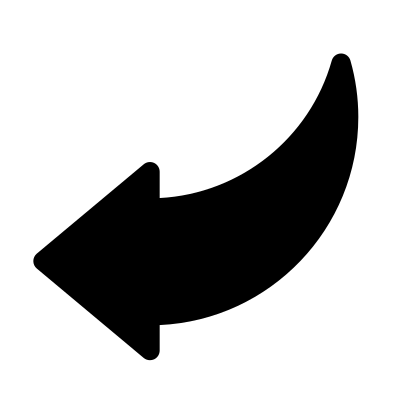
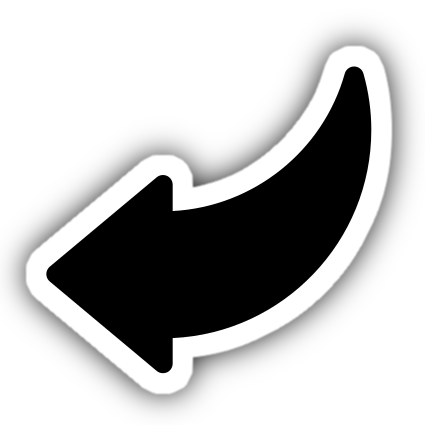
Quality of life, polish, better styling, disable lerping when far from camera

diff --git a/index.html b/index.html
@@ -18,12 +18,16 @@
             
             #overlay { pointer-events:none; display:flex; flex:1; position:fixed; inset:0; width:auto; height:auto; flex-direction:column; justify-content:end; }
             #menuHolder { display:flex; flex:1; width:65dvw; height:auto; justify-content:center; align-items:center; padding-top:1dvh; padding-bottom:1dvh; padding-left:1dvw; padding-right:1dvw }
-            #menuBox { container-type:size; overflow:hidden; pointer-events:auto; display:flex; width:calc(var(--boxSize) * 4 / 3); height:var(--boxSize); padding-top:2dvh; padding-bottom:2dvh; padding-left:2dvh;
-                background-color:rgba(100,100,100,0.8); border:solid 1dvh black; border-radius:5dvh; transform:scale(100%); transition:transform 0.2s ease-out }
+            #menuBox { pointer-events:none; container-type:size; display:flex; width:calc(var(--boxSize) * 4 / 3); height:var(--boxSize);
+                background-color:rgb(200,200,200,0.0); transform:scale(100%); transition:transform 0.2s ease-out }
             #menuBox.hidden { transform:scale(0%); }
 
-            #pivotSelect { position:relative; }
-            #dollImg { height:100%; }
+            #pivotSelect { pointer-events:auto; position:relative; }
+            #dollContainer { width:fit-content; height:100%; cursor:pointer; transform:scale(100%); transition:transform 0.5s ease }
+            #dollContainer:active { transform:scale(95%) }
+            .dollImg { width:100%; height:100%; }
+            #dollBack { position:absolute; z-index:-1; left:0; top:0; background-color:#FF00FF; mask-image:url("assets/PegManMask.png"); mask-size:contain; mask-repeat:no-repeat; mask-position:center; 
+                -webkit-mask-image:url("assets/PegManMask.png"); -webkit-mask-size:contain; -webkit-mask-repeat:no-repeat; -webkit-mask-position:center; }
             #pivotSelect input { appearance:none; margin:0; position:absolute; cursor:pointer; width:15cqh; height:15cqh; 
                 border-radius:100%; background-color:white; border:solid 1.5cqh black; -webkit-tap-highlight-color:transparent;
                 background-repeat:no-repeat; background-position:center; background-image:radial-gradient(black 25%, white 27%);
@@ -38,8 +42,8 @@
             #body { left:50%; top:33%; }
             
             #rightHolder { container-type:size; position:relative; display:flex; flex:1; justify-content:center; align-items:center; flex-direction:column; }
-            #arrowBackground { position:absolute; left:50%; top:50%; transform:translate(-50%, -50%); width:95cqw; height:95cqw; background-color:rgba(0,0,0,0.5); border:solid 2cqw black; border-radius:100% }
-            #arrowHolder { container-type:size; position:relative; width:73cqw; height:73cqw; }
+            #arrowBackground { pointer-events:auto; position:absolute; left:50%; top:50%; transform:translate(-50%, -50%); width:95cqw; height:95cqw; background-color:rgba(0,0,0,0.65); border-radius:100% }
+            #arrowHolder { pointer-events:auto; container-type:size; position:relative; width:73cqw; height:73cqw; }
 
             .arrowButton { position:absolute; cursor:pointer; top:50%; left:50%; width:40cqh; height:40cqh; padding:3cqh; -webkit-tap-highlight-color:transparent;
                 --scale:1; --scalex:1; transform:translate(-50%, -50%) rotate(var(--rotation)) scale(calc(var(--scale) * var(--scalex)), var(--scale)); transition:padding 0.05s ease }
@@ -53,7 +57,7 @@
             #ccw_1 { --scalex:-100%; --rotation:0; left:83%; top:17%; }
             #ccw_2 { --scalex:-100%; --rotation:180deg; left:17%; top:83%; }
 
-            #colorPicker { position:absolute; top:50%; left:50%; width:42cqh; height:42cqh; cursor:pointer;
+            #colorPicker { pointer-events:auto; position:absolute; top:50%; left:50%; width:42cqh; height:42cqh; cursor:pointer;
                 appearance:none; -webkit-appearance:none; -webkit-tap-highlight-color:transparent; padding:0; border:solid 3cqh black; border-radius:100%; background-color:white; 
                 transform:translate(-50%, -50%) scale(100%); transition:padding 0.5s ease, transform 0.5s ease; }
             #colorPicker:active { transform:translate(-50%, -50%) scale(90%); padding:2cqh; }
@@ -103,7 +107,10 @@
                 <div id="menuHolder">
                     <div class="hidden" id="menuBox">
                         <div id="pivotSelect">
-                            <img id="dollImg" src="./assets/DollHousePegManUI.png" draggable="false" oncontextmenu="return false;">
+                            <div id="dollContainer" onclick="document.getElementById('colorPicker').click();">
+                                <img class="dollImg" src="./assets/PegMan.png" draggable="false" oncontextmenu="return false;">
+                                <div class="dollImg" id="dollBack"></div>
+                            </div>
                             <input type="radio" name="pivot" id="head" value="head" oncontextmenu="return false;" checked="true">
                             <input type="radio" name="pivot" id="leftArm" value="leftArm" oncontextmenu="return false;">
                             <input type="radio" name="pivot" id="rightArm" value="rightArm" oncontextmenu="return false;">
@@ -113,9 +120,8 @@
                             <img id="reset" src="./assets/reset.png" onclick="pivotReset(event)" draggable="false" oncontextmenu="return false;">
                         </div>
                         <div id="rightHolder">
-                            <div id="arrowBackground"></div>
                             <div id="arrowHolder">
-                                <input id="colorPicker" type="color" value="#ff00ff">
+                                <input id="colorPicker" type="color" tabindex="-1" value="#ff00ff">
                                 <img class="arrowButton" id="up" src="./assets/arrowaway.png" draggable="false" oncontextmenu="return false;">
                                 <img class="arrowButton" id="down" src="./assets/arrowaway.png" draggable="false" oncontextmenu="return false;">
                                 <img class="arrowButton" id="right" src="./assets/arrowaway.png" draggable="false" oncontextmenu="return false;">
@@ -131,7 +137,7 @@
                 <div class="mobileOnly" id="touchButtonHolder">
                     <div id="e" class="mobileOnly touchButton" ontouchstart="simKey(event)" ontouchend="stopSimKey(event)" ontouchcancel="stopSimKey(event)"><h1>PLACE</h1></div>
                     <div id="q" class="mobileOnly touchButton" ontouchstart="simKey(event)" ontouchend="stopSimKey(event)" ontouchcancel="stopSimKey(event)"><h1>POSE</h1></div>
-                    <div id=" " class="mobileOnly touchButton" ontouchstart="simKey(event)" ontouchend="stopSimKey(event)" ontouchcancel="stopSimKey(event)"><h1>UP</h1></div>
+                    <div id=" " class="mobileOnly touchButton" ontouchstart="simKey(event)" ontouchend="stopSimKey(event)" ontouchcancel="stopSimKey(event)"><h1>CLIMB</h1></div>
                 </div>
             </div>
             <div class="mobileOnly smallscreenOnly fullscreenButton" oncontextmenu="return false;" onclick="fullscreen(event)">
@@ -146,7 +152,13 @@
     <script>
         const rules = [...document.styleSheets[0].cssRules];
         const mobileOnlyRule = rules.find(r => r.selectorText == ".mobileOnly");
-        if(window.innerWidth <= 1024) //assume mobile, start mobileOnly class as visible by default
+        let mobile = false;
+        if(navigator.userAgentData)
+            mobile = navigator.userAgentData.mobile;
+        else
+            mobile = /Mobi|Android/i.test(navigator.userAgent);
+        
+        if(mobile)
             mobileOnlyRule.style.display = "flex";
 
         window.addEventListener("keydown", (event) => { mobileOnlyRule.style.display = "none"; });
@@ -237,6 +249,8 @@
             document.dispatchEvent(new CustomEvent("colorChange", {
                 detail: { color: event.target.value }
             }));
+            const dollBackRule = rules.find(r => r.selectorText == "#dollBack");
+            dollBackRule.style.backgroundColor = event.target.value;
         });
     </script>
 </html>

diff --git a/Dollhouse.js b/Dollhouse.js
@@ -5,6 +5,7 @@ import { collisionGameObject, gameObject,
 
 
 export const PLACE_TIME = 2;
+export const DISABLE_LERP_DIST = 25;
 
 const POSE_DIRECTIONS = [];
 let poseDirectionUp;
@@ -112,7 +113,6 @@ export class mannequin extends collisionGameObject
             {
                 piv.target = piv.quaternion.clone();
                 piv.quaternion.copy(origQuats[index]);
-                piv.t = 0;
             }
         }
     }
@@ -231,6 +231,7 @@ export class player extends mannequin
     };
     restPose = {};
     lockYawToCamera = false;
+    disableLerp = false;
 
     constructor(args)
     {
@@ -256,6 +257,8 @@ export class player extends mannequin
             () => [this.pos.x, this.pos.y], 
             (toFormat) => new THREE.Vector2().fromArray(toFormat),
             (data, t) => {
+                if(this.disableLerp)
+                    t = 1;
                 const xy = lerpVec(data.start, data.target, t);
                 this.setPos(new THREE.Vector3(xy.x, xy.y, this.pos.z));
                 return t >= 1;
@@ -264,6 +267,8 @@ export class player extends mannequin
             () => [this.getPos().z], 
             (toFormat) => toFormat[0],
             (data, t) => {
+                if(this.disableLerp)
+                    t = 1;
                 this.setPos(new THREE.Vector3(this.pos.x, this.pos.y, lerp(data.start, data.target, t)));
                 return t >= 1;
             });
@@ -517,18 +522,20 @@ export class player extends mannequin
     }
     tick(dt, time)
     {
+        this.disableLerp = this.getPos().sub(this.handler.camera.getWorldPosition(new THREE.Vector3())).length() >= DISABLE_LERP_DIST;
+
         //slerp pivots towards target rotation 
         for(const [id, piv] of Object.entries(this.pivots))
         {
             if(piv.target)
             {
                 piv.t ??= 0;
-                piv.t = Math.min(1, piv.t + dt * 2);
+                piv.t = this.disableLerp ? 1 : Math.min(1, piv.t + dt * 2);
                 piv.quaternion.slerp(piv.target, Math.sqrt(piv.t));
                 if(piv.t >= 1)
                 {
                     piv.target = null;
-                    piv.t = 0;
+                    piv.t = null;
                 }
             }
         }
@@ -651,8 +658,7 @@ export class player extends mannequin
         const cameraGround = this.groundLevel + 0.05;
         if(cameraWorldPos.z < cameraGround)
         {
-            const orbitWorldPos = new THREE.Vector3();
-            this.cameraOrbit.getWorldPosition(orbitWorldPos);
+            const orbitWorldPos = this.cameraOrbit.getWorldPosition(new THREE.Vector3());
             const direction = cameraWorldPos.clone().sub(orbitWorldPos);
             const lengthMod = (cameraGround - orbitWorldPos.z) / direction.z;
             const targetWorldPos = orbitWorldPos.clone().add(direction.clone().multiplyScalar(lengthMod));
@@ -697,7 +703,7 @@ export class player extends mannequin
         if(this.mannequinMesh)
         {
             const targetQuat = new THREE.Quaternion().setFromEuler(new THREE.Euler(0, 0, this.meshTargetYaw, "XYZ"));
-            if(this.mannequinMesh.quaternion.angleTo(targetQuat) < 0.05)
+            if(this.disableLerp || this.mannequinMesh.quaternion.angleTo(targetQuat) < 0.05)
                 this.mannequinMesh.quaternion.copy(targetQuat);
             else
                 this.mannequinMesh.quaternion.slerp(targetQuat, 10 * dt);
@@ -738,10 +744,12 @@ export class player extends mannequin
     }
     setOpenMenu(open)
     {
+        if(!this.mannequinMesh)
+            return;
         if(this.openMenu == open)
         {
-            if(!open && !document.pointerLockElement)
-                this.ui.canvas.requestPointerLock();
+            if(!open)
+                this.handler.lockPointer();
             return;
         }
         this.openMenu = open;
@@ -750,13 +758,15 @@ export class player extends mannequin
         {
             const cmt = this.cameraMenuTransition;
             cmt.targetOrbitQuat = new THREE.Quaternion().setFromEuler(new THREE.Euler(Math.PI * 0.25, 0, 0, "XYZ"));
-            cmt.targetMeshQuat = new THREE.Quaternion().setFromEuler(new THREE.Euler(0, 0, this.mesh.rotation.z + Math.PI * 0.85, "XYZ"));
-            document.exitPointerLock();
+            this.handler.camera.position.set(-this.handler.camera.aspect * cmt.offset, 0, 0);
+            const dir = this.handler.camera.getWorldPosition(new THREE.Vector3()).sub(this.getPos());
+            cmt.targetMeshQuat = new THREE.Quaternion().setFromEuler(new THREE.Euler(0, 0, Math.atan2(dir.y, dir.x) - Math.PI / 2, "XYZ"));
+            this.handler.unlockPointer();
             menuBox.classList.remove("hidden");
         }
         else
         {
-            this.ui.canvas.requestPointerLock();
+            this.handler.lockPointer();
             menuBox.classList.add("hidden");
         }
     }

diff --git a/Handlers.js b/Handlers.js
@@ -176,6 +176,24 @@ export class handler
         gameObj.isLocal = isLocal;
         getArr(isLocal).push(gameObj);
     }
+    lockPointer()
+    {
+        if(document.pointerLockElement)
+            return;
+
+        const mobileOnlyRule = [...document.styleSheets[0].cssRules].find(r => r.selectorText == ".mobileOnly");
+        if(mobileOnlyRule.style.display == "none")
+            this.ui.canvas.requestPointerLock();
+    }
+    unlockPointer()
+    {
+        if(!document.pointerLockElement)
+            return;
+
+        const mobileOnlyRule = [...document.styleSheets[0].cssRules].find(r => r.selectorText == ".mobileOnly");
+        if(mobileOnlyRule.style.display == "none")
+            document.exitPointerLock();
+    }
 }
 
 

diff --git a/game.js b/game.js
@@ -46,12 +46,12 @@ function loadGame()
     const fov = 70;
     const aspect = w / h;
     const near = 0.1;
-    const far = 100;
+    const far = 50;
     const camera = new THREE.PerspectiveCamera(fov, aspect, near, far);
     camera.position.set(0, 0, 10);
     camera.lookAt(0, 0, 0);
     const scene = new THREE.Scene();
-    scene.background = new THREE.Color("black");
+    scene.background = new THREE.Color("blue");
     camera.updateMatrixWorld();
 
     //set up lighting
